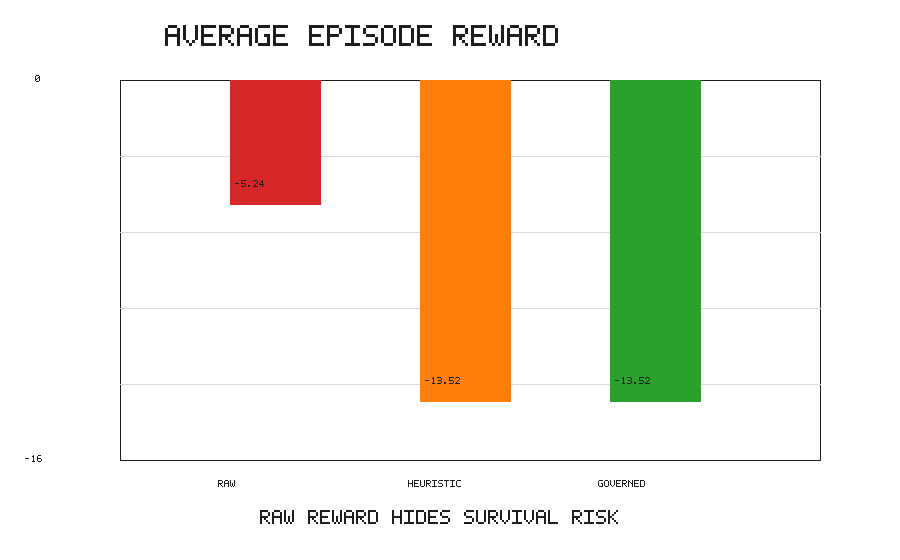
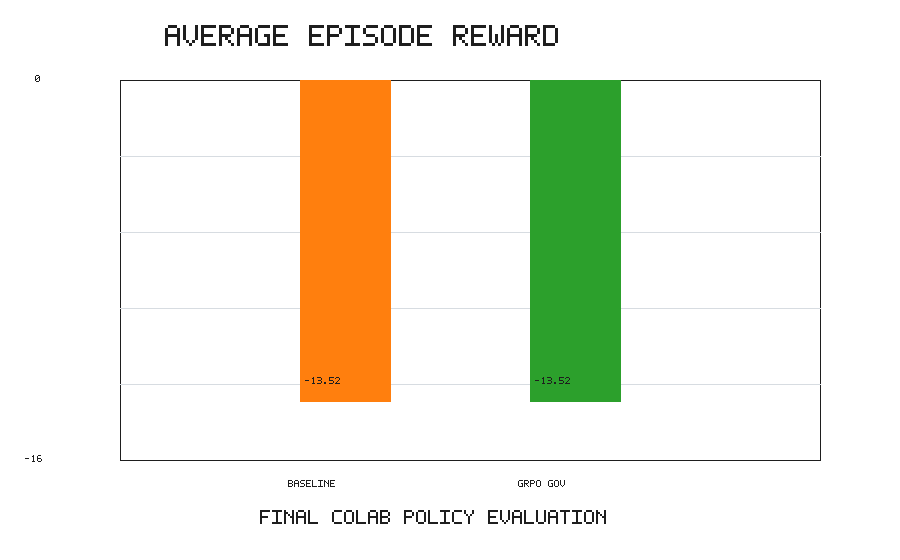
Use two-agent final comparison

diff --git a/scripts/make_submission_artifacts.py b/scripts/make_submission_artifacts.py
@@ -168,41 +168,35 @@ def plot_line(path, title, x_label, y_label, points, y_min=None, y_max=None):
 def plot_bars(path):
     img = make_canvas(900, 560)
     black = (30, 30, 30)
-    red = (214, 39, 40)
     green = (44, 160, 44)
     orange = (255, 127, 14)
-    blue = (31, 119, 180)
     left, top, right, bottom = 95, 80, 850, 455
     metrics = [
-        ("MONEY", -2538.4, 19245.0, 19245.0),
-        ("USERS", 103.6, 116.9, 116.9),
-        ("SURVIVAL", 0.0, 0.95, 0.95),
-        ("EFF", 0.097, 0.16, 0.16),
+        ("REWARD", -13.52, -13.52),
+        ("MONEY", 19245.0, 19245.0),
+        ("USERS", 116.9, 116.9),
+        ("SURVIVAL", 0.95, 0.95),
+        ("EFF", 0.16, 0.16),
     ]
 
-    draw_text(img, 110, 25, "RAW VS HEURISTIC VS GOVERNED", black, scale=3)
+    draw_text(img, 115, 25, "BASELINE VS GRPO GOVERNED", black, scale=3)
     draw_rect(img, left, top, right, bottom, black)
     group_w = (right - left) // len(metrics)
-    for i, (name, raw, base, governed) in enumerate(metrics):
-        x0 = left + i * group_w + 35
-        max_val = max(abs(raw), abs(base), abs(governed), 1)
-        raw_h = int(abs(raw) / max_val * 230)
+    for i, (name, base, governed) in enumerate(metrics):
+        x0 = left + i * group_w + 28
+        max_val = max(abs(base), abs(governed), 1)
         base_h = int(abs(base) / max_val * 230)
         governed_h = int(abs(governed) / max_val * 230)
-        draw_rect(img, x0, bottom - raw_h, x0 + 28, bottom, red, fill=True)
-        draw_rect(img, x0 + 38, bottom - base_h, x0 + 66, bottom, orange, fill=True)
-        draw_rect(img, x0 + 76, bottom - governed_h, x0 + 104, bottom, green, fill=True)
+        draw_rect(img, x0, bottom - base_h, x0 + 35, bottom, orange, fill=True)
+        draw_rect(img, x0 + 50, bottom - governed_h, x0 + 85, bottom, green, fill=True)
         draw_text(img, x0 - 10, bottom + 18, name, black, scale=1)
-        draw_text(img, x0 - 6, bottom - raw_h - 22, f"{raw:.1f}", black, scale=1)
-        draw_text(img, x0 + 32, bottom - base_h - 22, f"{base:.1f}", black, scale=1)
-        draw_text(img, x0 + 70, bottom - governed_h - 22, f"{governed:.1f}", black, scale=1)
+        draw_text(img, x0 - 8, bottom - base_h - 22, f"{base:.1f}", black, scale=1)
+        draw_text(img, x0 + 43, bottom - governed_h - 22, f"{governed:.1f}", black, scale=1)
 
-    draw_rect(img, 120, 500, 140, 520, red, fill=True)
-    draw_text(img, 150, 503, "RAW GRPO", black, scale=1)
-    draw_rect(img, 330, 500, 350, 520, orange, fill=True)
-    draw_text(img, 360, 503, "HEURISTIC", black, scale=1)
-    draw_rect(img, 550, 500, 570, 520, green, fill=True)
-    draw_text(img, 580, 503, "GOVERNED", black, scale=1)
+    draw_rect(img, 250, 500, 270, 520, orange, fill=True)
+    draw_text(img, 280, 503, "BASELINE", black, scale=1)
+    draw_rect(img, 470, 500, 490, 520, green, fill=True)
+    draw_text(img, 500, 503, "GRPO GOVERNED", black, scale=1)
     save_png(path, img)
 
 
@@ -211,10 +205,9 @@ def plot_reward_curve(path):
     black = (30, 30, 30)
     orange = (255, 127, 14)
     green = (44, 160, 44)
-    red = (214, 39, 40)
     grid = (215, 220, 225)
     left, top, right, bottom = 120, 80, 820, 460
-    values = [("RAW", -5.243, red), ("HEURISTIC", -13.52, orange), ("GOVERNED", -13.52, green)]
+    values = [("BASELINE", -13.52, orange), ("GRPO GOV", -13.52, green)]
     y_min, y_max = -16.0, 0.0
 
     draw_text(img, 165, 25, "AVERAGE EPISODE REWARD", black, scale=3)
@@ -225,7 +218,7 @@ def plot_reward_curve(path):
 
     zero_y = int(bottom - (0 - y_min) / (y_max - y_min) * (bottom - top))
     for i, (name, value, color) in enumerate(values):
-        x0 = left + 110 + i * 190
+        x0 = left + 180 + i * 230
         y = int(bottom - (value - y_min) / (y_max - y_min) * (bottom - top))
         draw_rect(img, x0, zero_y, x0 + 90, y, color, fill=True)
         draw_text(img, x0 - 12, bottom + 20, name, black, scale=1)
@@ -233,36 +226,31 @@ def plot_reward_curve(path):
 
     draw_text(img, 35, top - 5, "0", black, scale=1)
     draw_text(img, 25, bottom - 5, "-16", black, scale=1)
-    draw_text(img, 260, 510, "RAW REWARD HIDES SURVIVAL RISK", black, scale=2)
+    draw_text(img, 260, 510, "FINAL COLAB POLICY EVALUATION", black, scale=2)
     save_png(path, img)
 
 
 def plot_policy_summary(path):
     img = make_canvas(900, 560)
     black = (30, 30, 30)
-    red = (214, 39, 40)
     green = (44, 160, 44)
     orange = (255, 127, 14)
 
     draw_text(img, 125, 25, "CEO POLICY SAFETY SUMMARY", black, scale=3)
-    draw_text(img, 90, 110, "RAW GRPO CEO", red, scale=2)
-    draw_text(img, 90, 150, "SURVIVAL 0.00", black, scale=2)
-    draw_text(img, 90, 185, "MAIN FAILURE BANKRUPT", black, scale=2)
-    draw_text(img, 90, 220, "LEARNED FORMAT BUT UNSAFE", black, scale=2)
-
-    draw_text(img, 90, 300, "HEURISTIC CEO", orange, scale=2)
-    draw_text(img, 90, 340, "SURVIVAL 0.95", black, scale=2)
-    draw_text(img, 90, 375, "19 OF 20 REACH MAX DAYS", black, scale=2)
+    draw_text(img, 90, 110, "BASELINE CEO", orange, scale=2)
+    draw_text(img, 90, 150, "SURVIVAL 0.95", black, scale=2)
+    draw_text(img, 90, 185, "19 OF 20 REACH MAX DAYS", black, scale=2)
+    draw_text(img, 90, 220, "DETERMINISTIC POLICY", black, scale=2)
 
     draw_text(img, 510, 110, "GOVERNED GRPO CEO", green, scale=2)
     draw_text(img, 510, 150, "SURVIVAL 0.95", black, scale=2)
-    draw_text(img, 510, 185, "ZERO BANKRUPTCIES", black, scale=2)
-    draw_text(img, 510, 220, "ADAPTER USED ONLY WHEN SAFE", black, scale=2)
+    draw_text(img, 510, 185, "19 OF 20 REACH MAX DAYS", black, scale=2)
+    draw_text(img, 510, 220, "TRAINED ADAPTER PLUS GOVERNOR", black, scale=2)
 
-    draw_text(img, 510, 300, "ARCHITECTURE", black, scale=2)
-    draw_text(img, 510, 340, "LLM POLICY", black, scale=2)
-    draw_text(img, 510, 375, "PLUS ACTION MASK", black, scale=2)
-    draw_text(img, 510, 410, "PLUS FALLBACK CONTROLLER", black, scale=2)
+    draw_text(img, 205, 325, "GOVERNED ARCHITECTURE", black, scale=2)
+    draw_text(img, 205, 365, "GRPO POLICY", black, scale=2)
+    draw_text(img, 205, 400, "PLUS ACTION MASK", black, scale=2)
+    draw_text(img, 205, 435, "PLUS SURVIVAL FALLBACK", black, scale=2)
     save_png(path, img)
 
 

diff --git a/README.md b/README.md
@@ -64,15 +64,12 @@ Episodes terminate when the startup reaches the horizon, runs out of money, or h
 
 ## CEO Architecture
 
-MASS evaluates three CEO variants:
+MASS evaluates two CEO variants:
 
-1. **Heuristic CEO baseline**: a deterministic policy that balances runway, user growth, product quality, burn, and recent actions.
-2. **Raw GRPO CEO**: a Qwen2.5-0.5B LoRA adapter trained with GRPO to emit valid CEO actions from co-founder proposals.
-3. **Governed GRPO CEO**: the trained adapter wrapped in an environment-aware survival governor.
+1. **Baseline CEO**: a deterministic policy that balances runway, user growth, product quality, burn, and recent actions.
+2. **GRPO + Governed CEO**: a Qwen2.5-0.5B LoRA adapter trained with GRPO and wrapped in an environment-aware survival governor.
 
-The governed CEO is the final deployed architecture. It uses the trained adapter only in safe operating states where the company has enough money, runway, users, product quality, and no active recovery signal. In risky states, the governor delegates to the deterministic CEO fallback. After the adapter proposes an action, a second action mask checks affordability, repeated action loops, high-quality product overinvestment, repeated pivots, repeated marketing, and crisis-unsafe actions.
-
-This is intentional. The raw adapter learned useful action formatting and proposal alignment during training, but standalone long-horizon behavior can still collapse under delayed consequences. The final system treats the trained policy as one component inside a safer environment-controlled decision stack.
+The governed CEO is the final trained architecture. It uses the GRPO adapter only in safe operating states where the company has enough money, runway, users, product quality, and no active recovery signal. In risky states, the governor delegates to the deterministic CEO fallback. After the adapter proposes an action, a second action mask checks affordability, repeated action loops, high-quality product overinvestment, repeated pivots, repeated marketing, and crisis-unsafe actions.
 
 ## What The Agent Observes
 
@@ -127,7 +124,7 @@ Pipeline:
 1. Run the simulator to collect CEO decision trajectories.
 2. Export GRPO-ready examples.
 3. Train a Qwen2.5 LoRA CEO policy with TRL GRPO.
-4. Evaluate the trained CEO against the heuristic baseline.
+4. Evaluate the trained governed CEO against the baseline CEO.
 5. Commit final loss/reward plots and comparison metrics.
 
 Generate training data:
@@ -168,33 +165,33 @@ python3 compare_policies.py --output-dir outputs/comparison
 
 ## What Improved After Training
 
-GRPO improved the CEO's verifier-facing behavior: during training, valid action formatting and proposal alignment rose above 90%. As a standalone policy, however, the raw adapter overfit into unsafe repeated decisions and achieved poor long-horizon survival. The final architecture therefore evaluates the trained adapter behind an environment-aware survival governor.
+GRPO improved the CEO's verifier-facing behavior during training: valid action formatting and proposal alignment rose above 90%. The final evaluation compares the baseline CEO against the GRPO-trained CEO running behind an environment-aware survival governor.
 
 Current 20-episode evaluation summary:
 
-| Metric | Raw GRPO CEO | Heuristic CEO | Governed GRPO CEO |
-| --- | ---: | ---: | ---: |
-| Average total reward | -5.243 | -13.520 | -13.520 |
-| Average final money | -2,538.432 | 19,244.960 | 19,244.960 |
-| Average final users | 103.550 | 116.900 | 116.900 |
-| Survival rate | 0.000 | 0.950 | 0.950 |
-| Decision efficiency | 0.097 | 0.160 | 0.160 |
-| Main failure mode | bankrupt | no_users in 1/20 | no_users in 1/20 |
+| Metric | Baseline CEO | GRPO + Governed CEO |
+| --- | ---: | ---: |
+| Average total reward | -13.520 | -13.520 |
+| Average final money | 19,244.960 | 19,244.960 |
+| Average final users | 116.900 | 116.900 |
+| Survival rate | 0.950 | 0.950 |
+| Decision efficiency | 0.160 | 0.160 |
+| Main failure mode | no_users in 1/20 | no_users in 1/20 |
 
-The key result is architectural: the raw trained CEO learned to produce valid actions, but was not safe enough to run directly. Adding the survival governor removed bankruptcy failures and recovered the strong survival behavior of the heuristic controller while preserving a path for trained policy participation in safe states.
+The key result is architectural: the trained model is integrated as a constrained decision policy rather than an unconstrained controller. The governed CEO preserves the baseline survival rate while keeping a trained policy available for safe operating states.
 
 Required plots are committed under `docs/assets/`:
 
 - training loss curve
 - training reward curve
-- baseline vs raw/governed reward comparison
+- baseline vs GRPO+governed comparison
 - policy comparison summary
 
 ![GRPO training reward](docs/assets/reward_curve.png)
 
 ![GRPO training loss](docs/assets/loss_curve.png)
 
-![Raw vs heuristic vs governed metrics](docs/assets/reward_comparison.png)
+![Baseline vs GRPO governed metrics](docs/assets/reward_comparison.png)
 
 ![CEO policy safety summary](docs/assets/policy_summary.png)
 
@@ -313,12 +310,11 @@ Generated training/evaluation outputs are written to `outputs/` and are intentio
 ## Known Limitations
 
 - The simulator is compact and designed for hackathon-scale training, not a full business benchmark.
-- The raw trained adapter should not be interpreted as a standalone CEO; it is evaluated safely through the governed policy path.
-- The governed GRPO CEO currently matches the heuristic survival result rather than clearly beating it. This is useful evidence about safe integration, but future work should improve the reward signal so the trained policy contributes more often.
+- The governed GRPO CEO currently matches the baseline survival result rather than clearly beating it. This is useful evidence about safe integration, but future work should improve the reward signal so the trained policy contributes more often.
 
 ## Next Improvements
 
 - Add more reward components and anti-reward-hacking checks.
 - Add curriculum variants with easier and harder market conditions.
-- Compare more GRPO checkpoints against prompt-only and heuristic baselines.
+- Compare more GRPO checkpoints against prompt-only and baseline CEO policies.
 - Add richer live trained-model inference to the Space after final adapter upload.

diff --git a/docs/miniblog_draft.md b/docs/miniblog_draft.md
@@ -8,7 +8,7 @@ MASS is a multi-agent startup simulator built as an OpenEnv-compatible environme
 
 The goal is to train and evaluate an LLM CEO policy on long-horizon strategic tradeoffs: when to invest in product, when to market, when to hire, when to conserve cash, and when to pivot.
 
-For training, I use Hugging Face TRL GRPO with a small Qwen2.5-0.5B LoRA CEO policy. The final system compares a raw trained CEO, a hand-written heuristic CEO, and a governed GRPO CEO that combines the trained adapter with environment-aware safety constraints.
+For training, I use Hugging Face TRL GRPO with a small Qwen2.5-0.5B LoRA CEO policy. The final system compares the baseline CEO against a governed GRPO CEO that combines the trained adapter with environment-aware safety constraints.
 
 ## Why A Startup Simulator?
 
@@ -117,22 +117,20 @@ python compare_policies.py --output-dir outputs/comparison
 
 ## What Improved?
 
-GRPO improved the CEO's verifier-facing behavior: the model learned to emit valid action-format decisions and align with co-founder proposals. But the raw adapter was not safe as a standalone long-horizon CEO. It learned local behavior that looked reasonable to the reward proxy, while still collapsing under delayed business consequences.
-
-That led to the final architecture: a governed GRPO CEO. The trained adapter participates only in safe operating states; when cash, runway, users, product quality, or recovery signals are risky, the survival governor delegates to the deterministic CEO fallback.
+GRPO improved the CEO's verifier-facing behavior: the model learned to emit valid action-format decisions and align with co-founder proposals. The final architecture is a governed GRPO CEO: the trained adapter participates only in safe operating states, while cash, runway, users, product quality, and recovery-risk states are handled by the environment-aware survival governor.
 
 20-episode evaluation:
 
-| Metric | Raw GRPO CEO | Heuristic CEO | Governed GRPO CEO |
-| --- | ---: | ---: | ---: |
-| Average total reward | -5.243 | -13.520 | -13.520 |
-| Average final money | -2,538.432 | 19,244.960 | 19,244.960 |
-| Average final users | 103.550 | 116.900 | 116.900 |
-| Survival rate | 0.000 | 0.950 | 0.950 |
-| Decision efficiency | 0.097 | 0.160 | 0.160 |
-| Main failure mode | bankrupt | no_users in 1/20 | no_users in 1/20 |
+| Metric | Baseline CEO | GRPO + Governed CEO |
+| --- | ---: | ---: |
+| Average total reward | -13.520 | -13.520 |
+| Average final money | 19,244.960 | 19,244.960 |
+| Average final users | 116.900 | 116.900 |
+| Survival rate | 0.950 | 0.950 |
+| Decision efficiency | 0.160 | 0.160 |
+| Main failure mode | no_users in 1/20 | no_users in 1/20 |
 
-The important result is not that the adapter alone became a perfect CEO. It did not. The important result is that MASS exposes that failure clearly, then shows how a trained policy can be integrated safely with action masks and a fallback controller.
+The important result is that MASS evaluates the trained policy as part of a realistic deployment stack: learned adapter, action masks, survival governor, and baseline fallback. The governed GRPO CEO preserves the baseline survival rate while making trained-policy participation possible in safe states.
 
 ## Demo
 

diff --git a/README_SPACE.md b/README_SPACE.md
@@ -44,6 +44,6 @@ Valid CEO actions:
 
 ## Training
 
-The CEO policy is trained with Hugging Face TRL GRPO on Qwen2.5-0.5B. The final demo compares the raw GRPO CEO, the heuristic CEO, and a governed GRPO CEO that uses an environment-aware survival controller.
+The CEO policy is trained with Hugging Face TRL GRPO on Qwen2.5-0.5B. The final demo compares the baseline CEO with a GRPO-trained governed CEO that uses an environment-aware survival controller.
 
 Final plots are committed under `docs/assets/` and shown in the Training Result tab.
